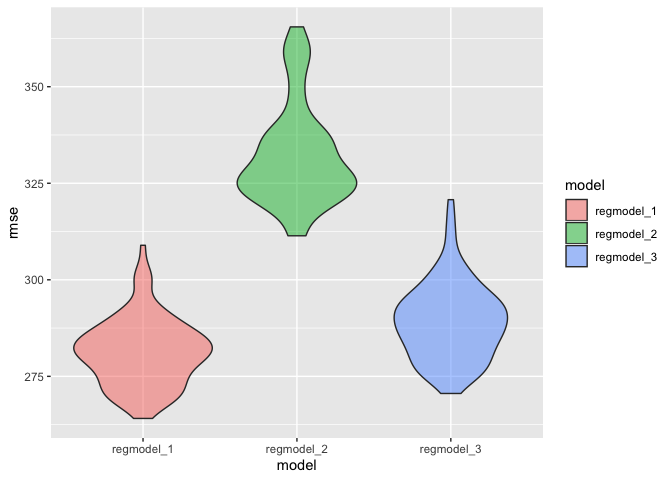
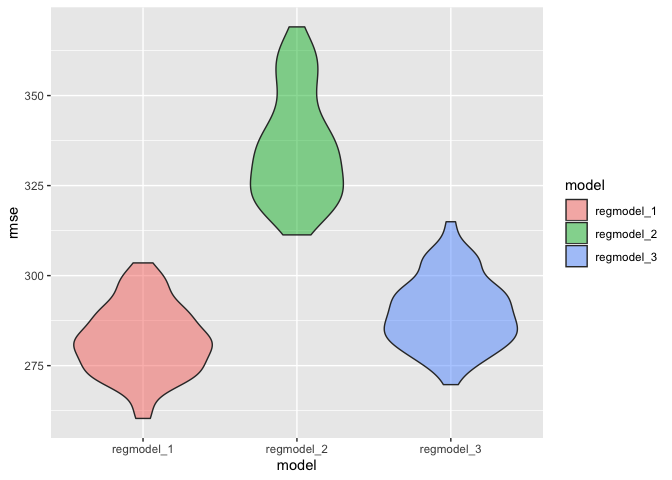
tweaked question 1, coded question 2 + plots and started some descriptions

diff --git a/p8105_hw6_bg2645.md b/p8105_hw6_bg2645.md
@@ -5,9 +5,7 @@ Bing Bing Guo
 
 ## Question 1
 
-  - Load and clean the data for regression analysis
-
-<!-- end list -->
+**Load and clean the data for regression analysis**
 
 ``` r
 birthweight_data = 
@@ -57,11 +55,9 @@ sum(!complete.cases(birthweight_data))
 
   - There are no missing values in the dataset
 
-  - Propose a regression model for birthweight and show a plot of model
-    residuals against fitted
-values
-
-<!-- end list -->
+**Propose a regression model for birthweight and show a plot of model
+residuals against fitted
+values**
 
 ``` r
 regmodel_1 = lm(bwt ~ fincome + gaweeks + delwt + bhead +blength + smoken, data = birthweight_data) 
@@ -115,16 +111,15 @@ ggplot(aes(x = pred, y = resid)) + geom_point(alpha = 0.5) +
    )
 ```
 
-![](p8105_hw6_bg2645_files/figure-gfm/unnamed-chunk-4-1.png)<!-- --> \*
-the majority of the residuals fall around 0, however there some values
-particularily on the left side of the graph, where the predicted
-birthweight is lower, that have very high residuals and thus are
-outliers.
+![](p8105_hw6_bg2645_files/figure-gfm/unnamed-chunk-4-1.png)<!-- -->
 
-  - Compare your model against a model using length at birth and
-    gestational age as predictors (main effects only)
+  - The majority of the residuals fall around 0, however there some
+    values particularily on the left side of the graph, where the
+    predicted birthweight is lower, that have very high residuals and
+    thus are outliers.
 
-<!-- end list -->
+**Compare your model against a model using length at birth and
+gestational age as predictors (main effects only)**
 
 ``` r
 regmodel_2 = lm(bwt ~ blength + gaweeks, data = birthweight_data)
@@ -151,12 +146,9 @@ summary(regmodel_2)
     ## Multiple R-squared:  0.5769, Adjusted R-squared:  0.5767 
     ## F-statistic:  2958 on 2 and 4339 DF,  p-value: < 2.2e-16
 
-  - Compare your model against a model using head circumference, length,
-    sex, and all interactions (including the three-way interaction)
-    between
-these
-
-<!-- end list -->
+**Compare your model against a model using head circumference, length,
+sex, and all interactions (including the three-way interaction) between
+these**
 
 ``` r
 regmodel_3 = lm(bwt ~ bhead + babysex + blength + (bhead * babysex * blength), data = birthweight_data)
@@ -189,8 +181,8 @@ summary(regmodel_3)
     ## Multiple R-squared:  0.6849, Adjusted R-squared:  0.6844 
     ## F-statistic:  1346 on 7 and 4334 DF,  p-value: < 2.2e-16
 
-Make this comparison in terms of the cross-validated prediction error;
-use `crossv_mc` and functions in `purrr` as appropriate.
+**Make this comparison in terms of the cross-validated prediction error;
+use `crossv_mc` and functions in `purrr` as appropriate.**
 
 ``` r
 cv_birthweight =
@@ -205,6 +197,7 @@ mutate( train = map(train, as_tibble),
   mutate(rmse_regmodel_1 = map2_dbl(regmodel_1, test, ~rmse(model = .x, data = .y)),
          rmse_regmodel_2   = map2_dbl(regmodel_2, test, ~rmse(model = .x, data = .y)),
          rmse_regmodel_3 = map2_dbl(regmodel_3, test, ~rmse(model = .x, data = .y)))
+
 cv_birthweight %>% 
   select(starts_with("rmse")) %>% 
 pivot_longer(
@@ -216,12 +209,13 @@ pivot_longer(
   ggplot(aes(x = model, y = rmse,  fill = model)) + geom_violin(alpha=0.5) 
 ```
 
-![](p8105_hw6_bg2645_files/figure-gfm/unnamed-chunk-7-1.png)<!-- --> \*
-Based on the three models above, you can see that regmodel\_2 has the
-highest RMSE while regmodel\_1 has the lowest RMSE, in which regmodel\_3
-has a slightly higher RMSE than regmodel\_1. Thus, regmodel\_1 seems to
-be the best model as it has the lowest RMSE and thus fits data better
-than the other two models.
+![](p8105_hw6_bg2645_files/figure-gfm/unnamed-chunk-7-1.png)<!-- -->
+
+  - Based on the three models above, you can see that regmodel\_2 has
+    the highest RMSE while regmodel\_1 has the lowest RMSE, in which
+    regmodel\_3 has a slightly higher RMSE than regmodel\_1. Thus,
+    regmodel\_1 seems to be the best model as it has the lowest RMSE and
+    thus fits data better than the other two models.
 
 ## Question 2
 
@@ -272,11 +266,106 @@ weather_df
     ## 10 CentralPark_NY USW00094728 2017-01-10     0   7.8  -6  
     ## # … with 355 more rows
 
-  - Use 5000 bootstrap samples and, for each bootstrap sample, produce
-    estimates of rsquared and log(beta0\*beta1).
+<b>Use 5000 bootstrap samples and, for each bootstrap sample, produce
+estimates of rsquared and log(beta0\*beta1).<b>
 
-  - Plot the distribution of your estimates
+``` r
+boot_straps = 
+  data_frame(
+    strap_number = 1:5000,
+    strap_sample = rerun(5000, sample_frac(weather_df, replace = TRUE))
+  )
+```
 
-  - Using the 5000 bootstrap estimates, identify the 2.5% and 97.5%
-    quantiles to provide a 95% confidence interval for rsquared and
-    log(beta0\*beta1).
+    ## Warning: `data_frame()` is deprecated, use `tibble()`.
+    ## This warning is displayed once per session.
+
+``` r
+boot_straps
+```
+
+    ## # A tibble: 5,000 x 2
+    ##    strap_number strap_sample      
+    ##           <int> <list>            
+    ##  1            1 <tibble [365 × 6]>
+    ##  2            2 <tibble [365 × 6]>
+    ##  3            3 <tibble [365 × 6]>
+    ##  4            4 <tibble [365 × 6]>
+    ##  5            5 <tibble [365 × 6]>
+    ##  6            6 <tibble [365 × 6]>
+    ##  7            7 <tibble [365 × 6]>
+    ##  8            8 <tibble [365 × 6]>
+    ##  9            9 <tibble [365 × 6]>
+    ## 10           10 <tibble [365 × 6]>
+    ## # … with 4,990 more rows
+
+``` r
+bootstrap_results = 
+  boot_straps %>% 
+  mutate(
+    models = map(strap_sample, ~lm(tmax ~ tmin, data = .x) ),
+    results_tidy = map(models, broom::tidy),
+    results_glance = map(models, broom::glance)) %>% 
+  select(-strap_sample, -models) %>% 
+  unnest() %>% 
+  select(strap_number, r.squared, term, estimate) %>%
+  pivot_wider(names_from = "term", values_from = "estimate") %>%
+  janitor::clean_names() %>%
+  mutate(log_betas = log(intercept * tmin))
+```
+
+    ## Warning: `cols` is now required.
+    ## Please use `cols = c(results_tidy, results_glance)`
+
+``` r
+bootstrap_results %>% 
+  summarize("rsquared" = mean(r_squared), 
+            "log(beta0*beta1)"= mean(log_betas))%>%
+  knitr::kable(digits = 3)
+```
+
+| rsquared | log(beta0\*beta1) |
+| -------: | ----------------: |
+|    0.911 |             2.013 |
+
+**Plot the distribution of your estimates**
+
+``` r
+plot1 = ggplot(data = bootstrap_results, aes(x = r_squared)) + 
+          geom_histogram() + labs(title = "R-squared Estimates")  
+
+plot2 = ggplot(data = bootstrap_results, aes(x = log_betas)) + 
+          geom_histogram() + labs(title = "Log of beta0*beta1 Estimates")
+
+plot1 + plot2
+```
+
+    ## `stat_bin()` using `bins = 30`. Pick better value with `binwidth`.
+    ## `stat_bin()` using `bins = 30`. Pick better value with `binwidth`.
+
+![](p8105_hw6_bg2645_files/figure-gfm/unnamed-chunk-11-1.png)<!-- -->
+
+<b>Using the 5000 bootstrap estimates, identify the 2.5% and 97.5%
+quantiles to provide a 95% confidence interval for rsquared and
+log(beta0\*beta1). <b>
+
+``` r
+quantile(pull(bootstrap_results, r_squared), probs = c(0.025, 0.975)) 
+```
+
+    ##      2.5%     97.5% 
+    ## 0.8937692 0.9272326
+
+  - Thus, the 95% CI for rsquared is (0.894, 0.927).
+
+<!-- end list -->
+
+``` r
+quantile(pull(bootstrap_results, log_betas), probs = c(0.025, 0.975)) 
+```
+
+    ##     2.5%    97.5% 
+    ## 1.965776 2.057837
+
+  - Thus, the 95% confidence interval for log(beta0\*beta1) is (1.965,
+    2.058).
